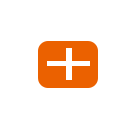
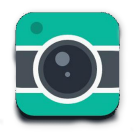
修改了图标和增加了背景图片

diff --git a/src/screens/tabs/Home/Article.js b/src/screens/tabs/Home/Article.js
@@ -1,10 +1,10 @@
-import React, {Component} from 'react';
+import React, { Component } from 'react';
 import {
     StyleSheet, FlatList, Text, View,
     Alert, ActivityIndicator, Platform, TouchableOpacity, Button, Image
 } from 'react-native';
-import {Icon} from 'react-native-elements'
-import {TabNavigator, StackNavigator, TabBarBottom} from 'react-navigation'
+import { Icon } from 'react-native-elements'
+import { TabNavigator, StackNavigator, TabBarBottom } from 'react-navigation'
 import App from '../../../utils/app.core'
 
 class ArticleScreen extends Component {
@@ -14,7 +14,9 @@ class ArticleScreen extends Component {
             isLoading: true
         }
     }
-
+    static navigationOptions = ({ navigation }) => ({
+        title: '宠物秀',
+    })
     componentDidMount() {
 
         return fetch('http://123.207.217.225/api/articles')
@@ -51,11 +53,11 @@ class ArticleScreen extends Component {
     }
 
     render() {
-        const {navigate} = this.props.navigation;
+        const { navigate } = this.props.navigation;
         if (this.state.isLoading) {
             return (
-                <View style={{flex: 1, paddingTop: 20}}>
-                    <ActivityIndicator/>
+                <View style={{ flex: 1, paddingTop: 20 }}>
+                    <ActivityIndicator />
                 </View>
             );
         }
@@ -70,17 +72,17 @@ class ArticleScreen extends Component {
 
                     ItemSeparatorComponent={this.FlatListItemSeparator}
 
-                    renderItem={({item}) => (
+                    renderItem={({ item }) => (
                         <View style={styles.item}>
-                            <View style={{flex: 1, flexDirection: 'row'}}>
-                                <Image source={{url: item.avatar_img}} style={styles.avatar}/>
+                            <View style={{ flex: 1, flexDirection: 'row' }}>
+                                <Image source={{ uri: item.avatar_img }} style={styles.avatar} />
                                 <View>
                                     <Text style={styles.name}>{item.name}</Text>
                                     <Text style={styles.date}>{item.created_at}</Text>
                                 </View>
                             </View>
                             <Text style={styles.title} onPress={
-                                () => navigate('ArticleDetail', {id: item.id})
+                                () => navigate('ArticleDetail', { id: item.id })
                             }>
                                 {item.type == undefined ? '【分享】' : item.type}{item.title}
                             </Text>
@@ -130,8 +132,8 @@ const styles = StyleSheet.create({
     },
     date: {
         marginTop: 4,
-        fontSize:10,
-        color:'#a19fa9'
+        fontSize: 10,
+        color: '#a19fa9'
     },
     content: {
         marginLeft: 5,
@@ -142,4 +144,4 @@ const styles = StyleSheet.create({
 
 });
 
-export {ArticleScreen}
+export { ArticleScreen }

diff --git a/src/screens/tabs/Home.js b/src/screens/tabs/Home.js
@@ -3,7 +3,7 @@ import {
     StyleSheet, FlatList, Text, View,
     Alert, ActivityIndicator, Platform, TouchableOpacity, Button, Image
 } from 'react-native';
-import { Icon } from 'react-native-elements'
+import Icon from 'react-native-vector-icons/Feather';
 import { TabNavigator, TabBarTop } from 'react-navigation'
 import { ShowScreen } from './Home/Show'
 import { ArticleScreen } from './Home/Article'
@@ -15,6 +15,16 @@ const HomeTabs = TabNavigator({
     Article: { screen: ArticleScreen },
 },
     {
+        tabBarOptions: {
+            activeTintColor: '#374341',
+            inactiveTintColor: '#859391',
+            labelStyle: {
+                fontSize: 12,
+            },
+            style: {
+                backgroundColor: 'white',
+            },
+        },
         tabBarComponent: TabBarTop,
         tabBarPosition: 'top',
         swipeEnabled: true,
@@ -33,28 +43,16 @@ class HomeScreen extends Component {
         headerTitleStyle: { color: '#fff' },
         headerBackTitle: null,
         headerStyle: { backgroundColor: '#ff8302' },
-        headerLeft:
+        headerRight:
             <Icon
                 name='search'
                 size={30}
                 type="MaterialIcons"
+                color="white"
+                style={{paddingRight:5,}}
             />
         ,
-        headerRight:
-            <Button title={App.checkLogin() ? "发布" : "登陆"}
-                onPress={
-                    () => {
-                        if (App.checkLogin()) {
-                            navigation.navigate('Login')
-                        }
-                        else {
-                            navigation.navigate('Login')
-                        }
-
-                    }
-                }
-            />,
-        tabBarLabel: '推荐',
+        tabBarLabel: '主页',
         tabBarIcon: ({ tintColor, focused }) => (
             <Icon
                 name='home'
@@ -66,15 +64,15 @@ class HomeScreen extends Component {
     })
 
     render() {
-        const {navigate} = this.props.navigation;
+        const { navigate } = this.props.navigation;
         return (
-            <View style={{flex: 1}}>
-                <HomeTabs navigation={this.props.navigation}/>
+            <View style={{ flex: 1 }}>
+                <HomeTabs navigation={this.props.navigation} />
             </View>
         );
     }
 }
-HomeScreen.router=HomeTabs.router;
+HomeScreen.router = HomeTabs.router;
 const styles = StyleSheet.create({
     MainContainer: {
         backgroundColor: 'white',

diff --git a/src/screens/tabs/Selection.js b/src/screens/tabs/Selection.js
@@ -1,6 +1,6 @@
 import React, {Component} from 'react';
 import {StyleSheet, Text, View, ScrollView, TouchableOpacity,Image} from 'react-native';
-import {Icon} from 'react-native-elements';
+import Icon from 'react-native-vector-icons/MaterialIcons';
 
 class SelectionScreen extends Component {
     static navigationOptions = {
@@ -11,9 +11,8 @@ class SelectionScreen extends Component {
         headerStyle: {backgroundColor: '#ff8302'},
         tabBarIcon: ({tintColor, focused}) => (
             <Icon
-                name='list'
+                name='pets'
                 size={30}
-                type="MaterialIcons"
                 color={tintColor}
             />
         ),
@@ -23,6 +22,9 @@ class SelectionScreen extends Component {
         const {navigate}=this.props.navigation;
         return (
             <View style={{backgroundColor:'white'}}>
+            <View>
+                <Image source={require('../../image/back.jpg')} style={{width:null,height:200}}/>
+            </View>
                 <View style={styles.top}>
                     <TouchableOpacity style={styles.buttonLeft} onPress={()=>navigate('PetList')}>
                         <Text style={styles.text}>宠物</Text>
@@ -103,9 +105,9 @@ const styles = StyleSheet.create(
         top: {
             flexDirection: 'row',
             justifyContent: 'center',
-            backgroundColor:'#ff8302',
             paddingBottom:20,
-            marginBottom:10
+            marginBottom:10,
+            marginTop:-200
         },
         petImageView: {
             flex: 3,

diff --git a/src/screens/tabs/Store.js b/src/screens/tabs/Store.js
@@ -4,7 +4,7 @@ import {
     Alert, ActivityIndicator, Platform, TouchableOpacity, Image, TouchableNativeFeedback
 } from 'react-native'
 import {TabNavigator, StackNavigator} from 'react-navigation'
-import {Icon} from 'react-native-elements';
+import Icon from 'react-native-vector-icons/Feather';
 import ItemList from '../../config/ItemList'
 
 class StoreScreen extends Component {
@@ -57,17 +57,17 @@ class StoreScreen extends Component {
         headerTitleStyle: {color: '#fff'},
         headerBackTitle: null,
         headerStyle: {backgroundColor: '#ff8302'},
-        headerLeft: <Icon
+        headerRight: <Icon
             name='shopping-cart'
-            size={30}
-            type="MaterialIcons"
+            size={25}
+            color='white'
+            style={{marginRight: 5,}}
         />,
         title: '小宠商城',
         tabBarIcon: ({tintColor, focused}) => (
             <Icon
                 name='shopping-cart'
                 size={30}
-                type="MaterialIcons"
                 color={tintColor}
             />
         ),

diff --git a/src/screens/details/profile/Posts.js b/src/screens/details/profile/Posts.js
@@ -22,7 +22,7 @@ class PostScreen extends Component {
 
     componentDidMount() {
 
-        return fetch('http://123.207.217.225/api/article')
+        return fetch('http://123.207.217.225/api/articles')
             .then((response) => response.json())
             .then((responseJson) => {
                 this.setState({
@@ -97,7 +97,7 @@ class PostScreen extends Component {
                     renderItem={({item}) => (
                         <View style={styles.item}>
                             <View style={{flex: 1, flexDirection: 'row'}}>
-                                <Image source={{url: item.avatar_img}} style={styles.avatar}/>
+                                <Image source={{uri: item.avatar_img}} style={styles.avatar}/>
                                 <View>
                                     <Text style={styles.name}>{item.name}</Text>
                                     <Text style={styles.date}>{item.created_at}</Text>

diff --git a/src/screens/tabs/Home/Show.js b/src/screens/tabs/Home/Show.js
@@ -14,6 +14,9 @@ class ShowScreen extends Component {
             isLoading: true
         }
     }
+    static navigationOptions = ({ navigation }) => ({
+        title: '分享',
+    })
     componentDidMount() {
 
         return fetch('http://123.207.217.225/api/articles')
@@ -72,7 +75,7 @@ class ShowScreen extends Component {
                     renderItem={({ item }) => (
                         <View style={styles.item}>
                             <View style={{ flex: 1, flexDirection: 'row' }}>
-                                <Image source={{ url: item.avatar_img }} style={styles.avatar} />
+                                <Image source={{ uri: item.avatar_img }} style={styles.avatar} />
                                 <View>
                                     <Text style={styles.name}>{item.name}</Text>
                                     <Text style={styles.date}>{item.created_at}</Text>

diff --git a/src/screens/tabs/Message.js b/src/screens/tabs/Message.js
@@ -1,8 +1,7 @@
 import React, {Component} from 'react';
 import {StackNavigator} from 'react-navigation';
 import {StyleSheet, Text, View, ScrollView, Button, Image} from 'react-native';
-import {Icon} from 'react-native-elements'
-
+import Icon from 'react-native-vector-icons/Feather';
 
 class MessageScreen extends Component {
     constructor(props) {
@@ -13,11 +12,12 @@ class MessageScreen extends Component {
     }
 
     static navigationOptions = {
-        tabBarLabel: " ",
-        title: '个人消息',
-        tabBarIcon: ({tintColor, focused}) => (
-            <Image
-                source={require('../../image/launch.png')}
+        header:null,
+        tabBarLabel:"秀一秀",
+        showLabel:false,
+        tabBarIcon: () => (
+            <Icon
+                name='camera' size={35} color="#900"
             />
         ),
     }

diff --git a/src/screens/tabs/Profile.js b/src/screens/tabs/Profile.js
@@ -1,8 +1,8 @@
 import React, {Component} from 'react';
 import {StackNavigator} from 'react-navigation';
 import {StyleSheet, Text, View, ScrollView, Image, SectionList, TouchableNativeFeedback} from 'react-native';
-import {Icon, Avatar} from 'react-native-elements'
 import itemList from '../../config/ItemList'
+import Icon from 'react-native-vector-icons/Feather';
 
 const sectonDatas = {
     section1:[
@@ -32,9 +32,8 @@ class ProfileScreen extends Component {
         title: '个人资料',
         tabBarIcon: ({tintColor, focused}) => (
             <Icon
-                name='person'
+                name='user'
                 size={30}
-                type="MaterialIcons"
                 color={tintColor}
             />
         ),
